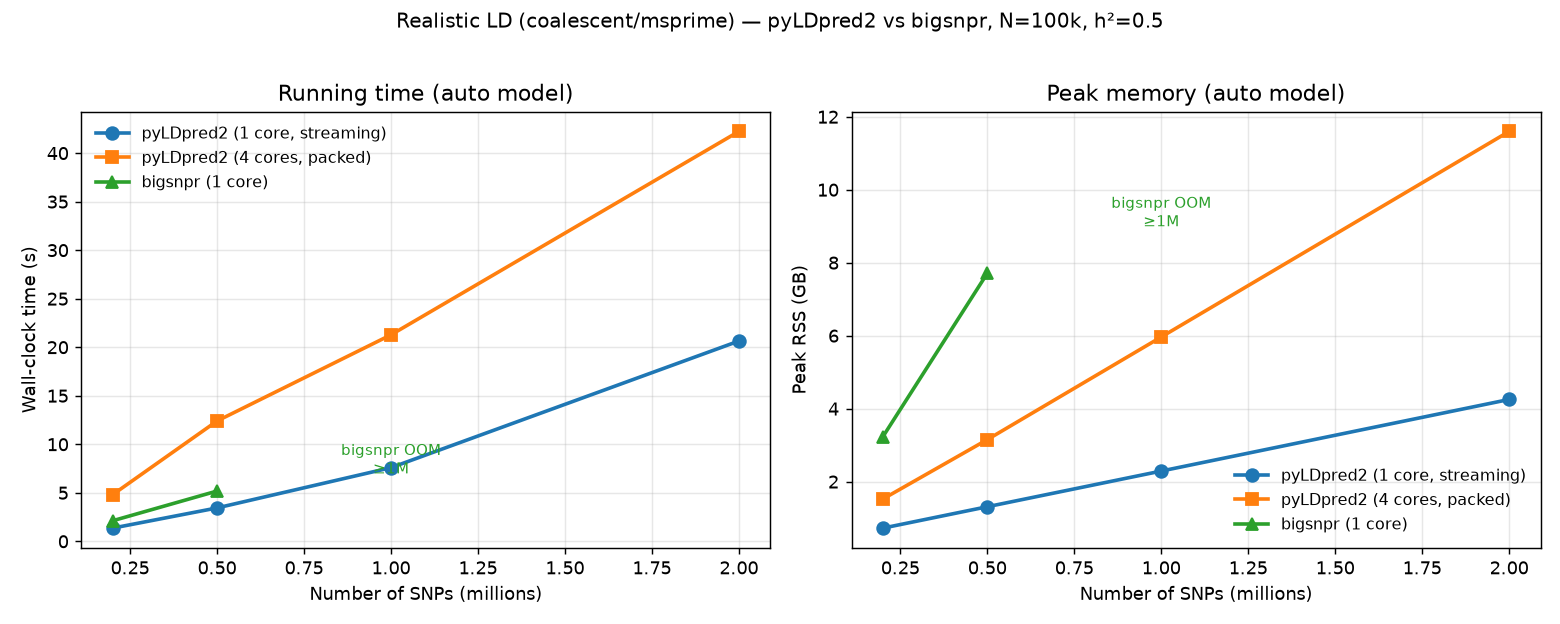
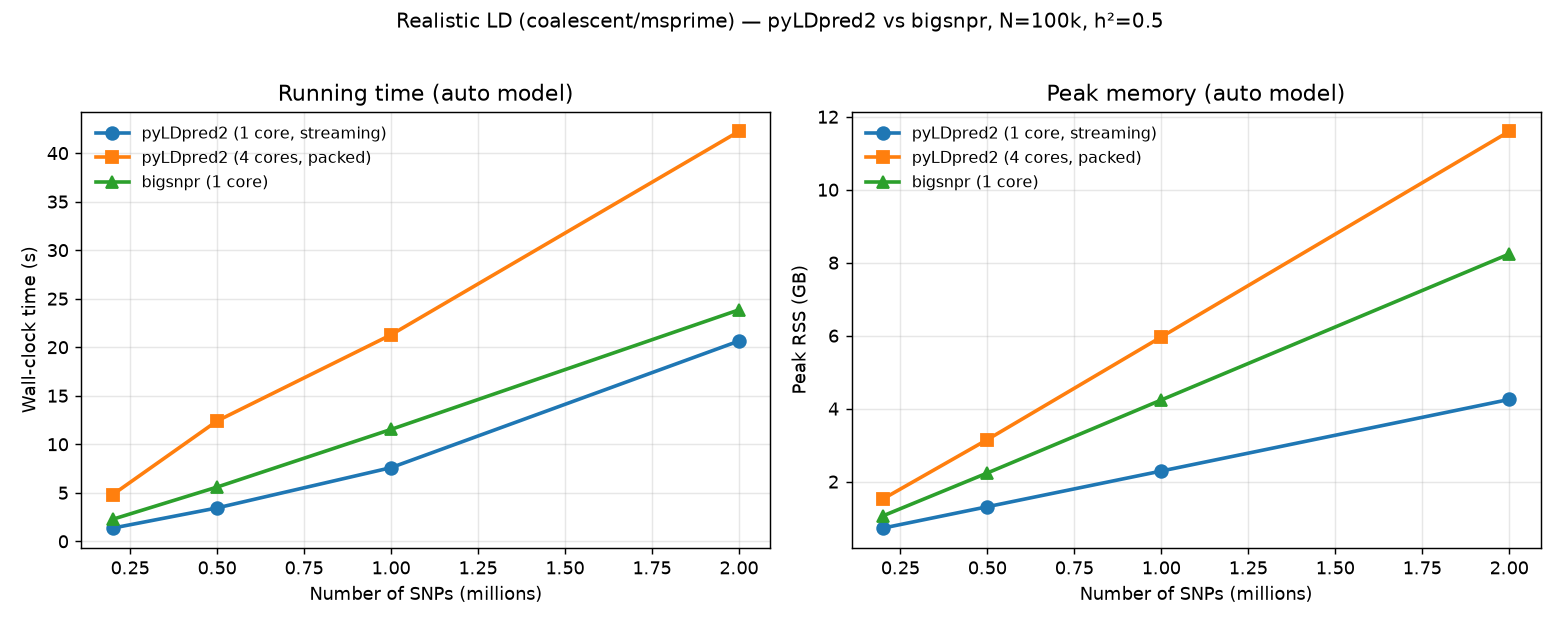
Fix bigsnpr memory benchmark: build SFBM incrementally
The previous bigsnpr harness assembled the entire block-diagonal
correlation in RAM (readBin every dense block + Matrix::bdiag) before
converting to an on-disk SFBM, which defeats bigsnpr's file-backed
design and OOM'd during assembly at >=1M SNPs -- a harness bug, not a
bigsnpr limitation.

Build the SFBM the way the LDpred2 vignette does: incrementally,
block-by-block via as_SFBM + $add_columns(), so only one block sits in
RAM at a time. With this fix bigsnpr scales cleanly to 2M (~8 GB) and
its memory drops ~3x at every size (e.g. 500k: 7.7 -> 2.2 GB).

Corrected realistic-LD results: pyLDpred2 1-core is ~1.2-1.7x faster
and ~2x leaner than bigsnpr (not the previously-claimed ~3.5x / OOM),
with matching accuracy at every size. Updates the README table, summary,
and plot accordingly; removes the superseded AR(1) benchmark artifacts
that were produced with the same buggy harness.

Claude-Session: https://claude.ai/code/session_019ZNt6YirmpuLAT7kkG2z6d

diff --git a/benchmarks/plot_cores_realistic.py b/benchmarks/plot_cores_realistic.py
@@ -31,10 +31,6 @@ for col, ax, ttl, ylab in [(0, ax_t, "Running time (auto model)", "Wall-clock ti
     ax.set_title(ttl); ax.set_xlabel("Number of SNPs (millions)")
     ax.set_ylabel(ylab); ax.grid(alpha=0.3); ax.legend(frameon=False, fontsize=9)
 
-# bigsnpr OOMs at 1M with realistic (denser) LD
-ax_t.annotate("bigsnpr OOM\n≥1M", (1.0, 7), color="#2ca02c", fontsize=8.5, ha="center")
-ax_m.annotate("bigsnpr OOM\n≥1M", (1.0, 9), color="#2ca02c", fontsize=8.5, ha="center")
-
 fig.suptitle("Realistic LD (coalescent/msprime) — pyLDpred2 vs bigsnpr, N=100k, h²=0.5",
              fontsize=11)
 fig.tight_layout(rect=(0, 0, 1, 0.96))

diff --git a/README.md b/README.md
@@ -18,34 +18,16 @@ float32 / fused Gibbs sampler, Rao-Blackwellized estimates, warm-start and
 adaptive stopping, a sparse/banded LD backend with an iterative `inf` solver,
 optimal LD-block splitting (Privé 2022), and global hyper-parameters for `-auto`
 via a **streaming** sampler that never materialises a genome-wide LD matrix.
-Across 200k–2M SNPs (single core) it matches bigsnpr's accuracy at **~3.5× less
-memory**, scales linearly to **2M SNPs in ~4 GB where bigsnpr runs out of RAM**,
-and is competitive on runtime (`-auto` faster-to-parity; `-grid` ~2× slower,
-pending a streaming rewrite). Optional multicore for global `-auto`
-(`ldpred2_by_blocks(..., ncores=k)`) parallelises the per-sweep block loop with
-`numba.prange` (≈3× kernel speed-up at 4 cores); on this memory-bandwidth-bound
-workload the net gain over the fast streaming single-core path is modest, and it
-trades the streaming sampler's low memory for a packed LD matrix.
+Across 200k–2M SNPs (single core) it matches bigsnpr's accuracy while running
+**~1.2–1.7× faster and using ~2× less memory**; both scale to 2M SNPs
+single-threaded (pyLDpred2 in ~4 GB, bigsnpr in ~8 GB). Optional multicore for
+global `-auto` (`ldpred2_by_blocks(..., ncores=k)`) parallelises the per-sweep
+block loop with `numba.prange` (≈3× kernel speed-up at 4 cores); on this
+memory-bandwidth-bound workload the net gain over the fast streaming single-core
+path is modest, and it trades the streaming sampler's low memory for a packed LD
+matrix. See the benchmark below for the head-to-head against `bigsnpr`.
 
-### Benchmark vs bigsnpr (200k–2M SNPs, single core, distinct LD blocks)
-
-Runtime and peak memory; prediction R² is identical between the two
-(0.991 / 0.964 / 0.929 at 200k / 500k / 1M).
-
-| #SNPs | pyLDpred2 grid | pyLDpred2 auto | **pyLDpred2 RAM** | bigsnpr grid | bigsnpr auto | bigsnpr RAM |
-|-------|---------------|----------------|-------------------|--------------|--------------|-------------|
-| 200k  | 2.6 s  | 1.2 s  | **0.53 GB** | 1.3 s | 1.9 s | 1.79 GB |
-| 500k  | 6.3 s  | 3.6 s  | **1.11 GB** | 3.1 s | 4.8 s | 4.02 GB |
-| 1M    | 12.2 s | 9.2 s  | **2.06 GB** | 6.0 s | 9.4 s | 7.84 GB |
-| 2M    | 24.7 s | 43.1 s* | **3.98 GB** | OOM  | OOM  | >15 GB |
-
-Memory scales linearly (~2 GB per 1M SNPs) and is 3.4–3.8× below bigsnpr; at 2M
-pyLDpred2 finishes in ~4 GB while bigsnpr's dense matrix build exceeds the 15 GB
-machine. (`*` at 2M `-auto` needs `warm_start=True` / more iterations to converge
-its hyper-parameters. bigsnpr's RAM here reflects an in-RAM dense-block matrix;
-its production on-disk banded LD uses less.)
-
-#### Single- vs multi-core (`-auto`), realistic LD
+### Benchmark vs bigsnpr (realistic LD, 200k–2M SNPs, single core)
 
 The benchmark below uses **realistic LD** — each block is a `k`-SNP correlation
 matrix from a coalescent-with-recombination simulation (msprime: haplotype
@@ -57,25 +39,26 @@ sampler, and bigsnpr at 1 core.
 
 | #SNPs | pyLDpred2 1c | pyLDpred2 4c | bigsnpr 1c | pyLDpred2 1c RAM | bigsnpr RAM |
 |-------|-------------:|-------------:|-----------:|-----------------:|------------:|
-| 200k  | 1.4 s  | 4.8 s  | 2.1 s | **0.73 GB** | 3.24 GB |
-| 500k  | 3.4 s  | 12.4 s | 5.2 s | **1.31 GB** | 7.71 GB |
-| 1M    | 7.6 s  | 21.3 s | OOM   | **2.29 GB** | >8 GB |
-| 2M    | 20.6 s | 42.2 s | OOM   | **4.25 GB** | — |
+| 200k  | 1.4 s  | 4.8 s  | 2.3 s  | **0.73 GB** | 1.06 GB |
+| 500k  | 3.4 s  | 12.4 s | 5.6 s  | **1.31 GB** | 2.24 GB |
+| 1M    | 7.6 s  | 21.3 s | 11.5 s | **2.29 GB** | 4.24 GB |
+| 2M    | 20.6 s | 42.2 s | 23.9 s | **4.25 GB** | 8.24 GB |
 
-Prediction R²_pheno matches bigsnpr where both run (0.493 vs 0.491 at 200k,
-0.481 vs 0.478 at 500k; h²=0.5).
+Prediction R²_pheno matches bigsnpr at every size (0.493/0.490 at 200k,
+0.481/0.479 at 500k, 0.464/0.461 at 1M, 0.422/0.422 at 2M; h²=0.5).
 
-- **Memory is the headline, and realistic LD widens the gap.** pyLDpred2 stores
-  fixed dense `k×k` blocks, so its footprint is independent of LD *density*;
-  bigsnpr's LD store grows with the number of retained correlations, so the
-  denser realistic blocks push its RAM up ~4–5× and it **OOMs at 1M** here
-  (it reached 2M on idealized AR(1) blocks). pyLDpred2 1-core stays ~4× leaner
-  and finishes 2M in ~4 GB.
-- **1-core streaming wins outright** on both time and memory across this whole
-  range. The 4-core packed path is *slower* everywhere (packing + thread setup
-  isn't amortised when 1-core auto already converges quickly) and uses ~3× the
-  RAM. Reach for `ncores=4` only at the multi-million-SNP scale where per-sweep
-  compute dominates.
+- **Both scale to 2M single-threaded.** bigsnpr is run the way it is meant to be
+  used: its on-disk SFBM is assembled **incrementally** block-by-block
+  (`as_SFBM` + `$add_columns()`, as in the LDpred2 vignette), so the full
+  correlation never sits in RAM — see `benchmarks/bench_bigsnpr_blocks.R`.
+- **pyLDpred2 1-core is ~1.2–1.7× faster and ~2× leaner.** The memory edge comes
+  from storing LD as `float32` and streaming one block at a time; bigsnpr's SFBM
+  keeps `float64` values plus per-entry row indices. It's a real but modest
+  constant-factor win, not an order-of-magnitude one.
+- **1-core streaming beats the 4-core packed path here** on both time and memory:
+  when 1-core auto already converges quickly, packing + thread setup isn't
+  amortised and the packed kernel uses ~3× the RAM. Reach for `ncores=4` only at
+  the multi-million-SNP scale where per-sweep compute dominates.
 - Regenerate with `benchmarks/plot_cores_realistic.py` (data in
   `benchmarks/cores_realistic_benchmark.csv`).
 